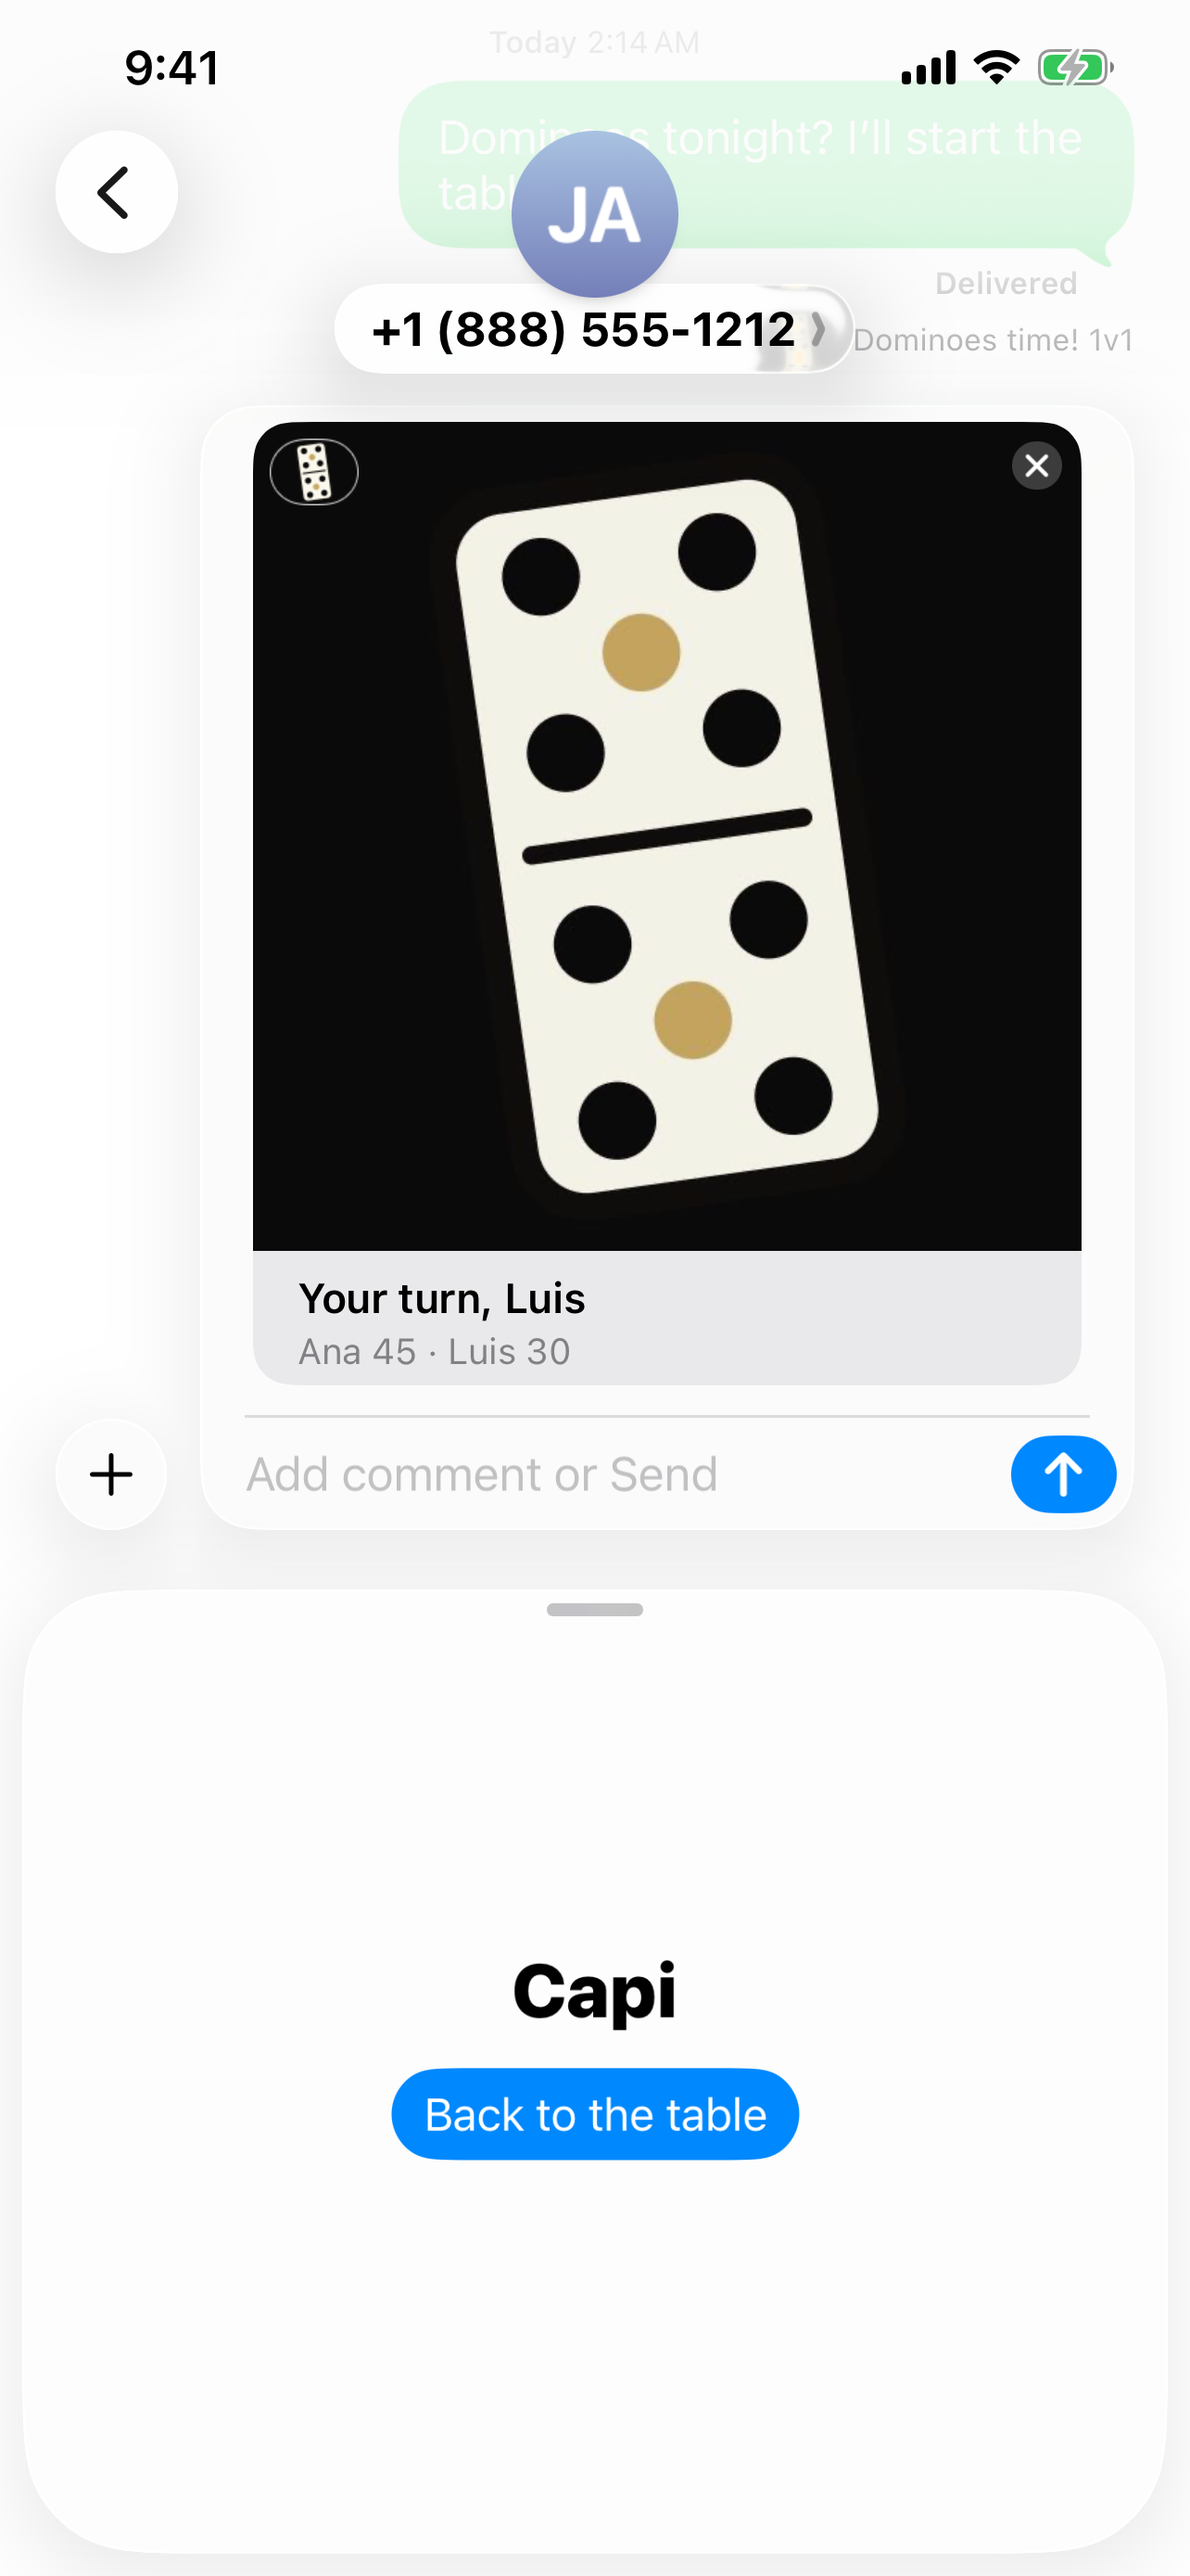
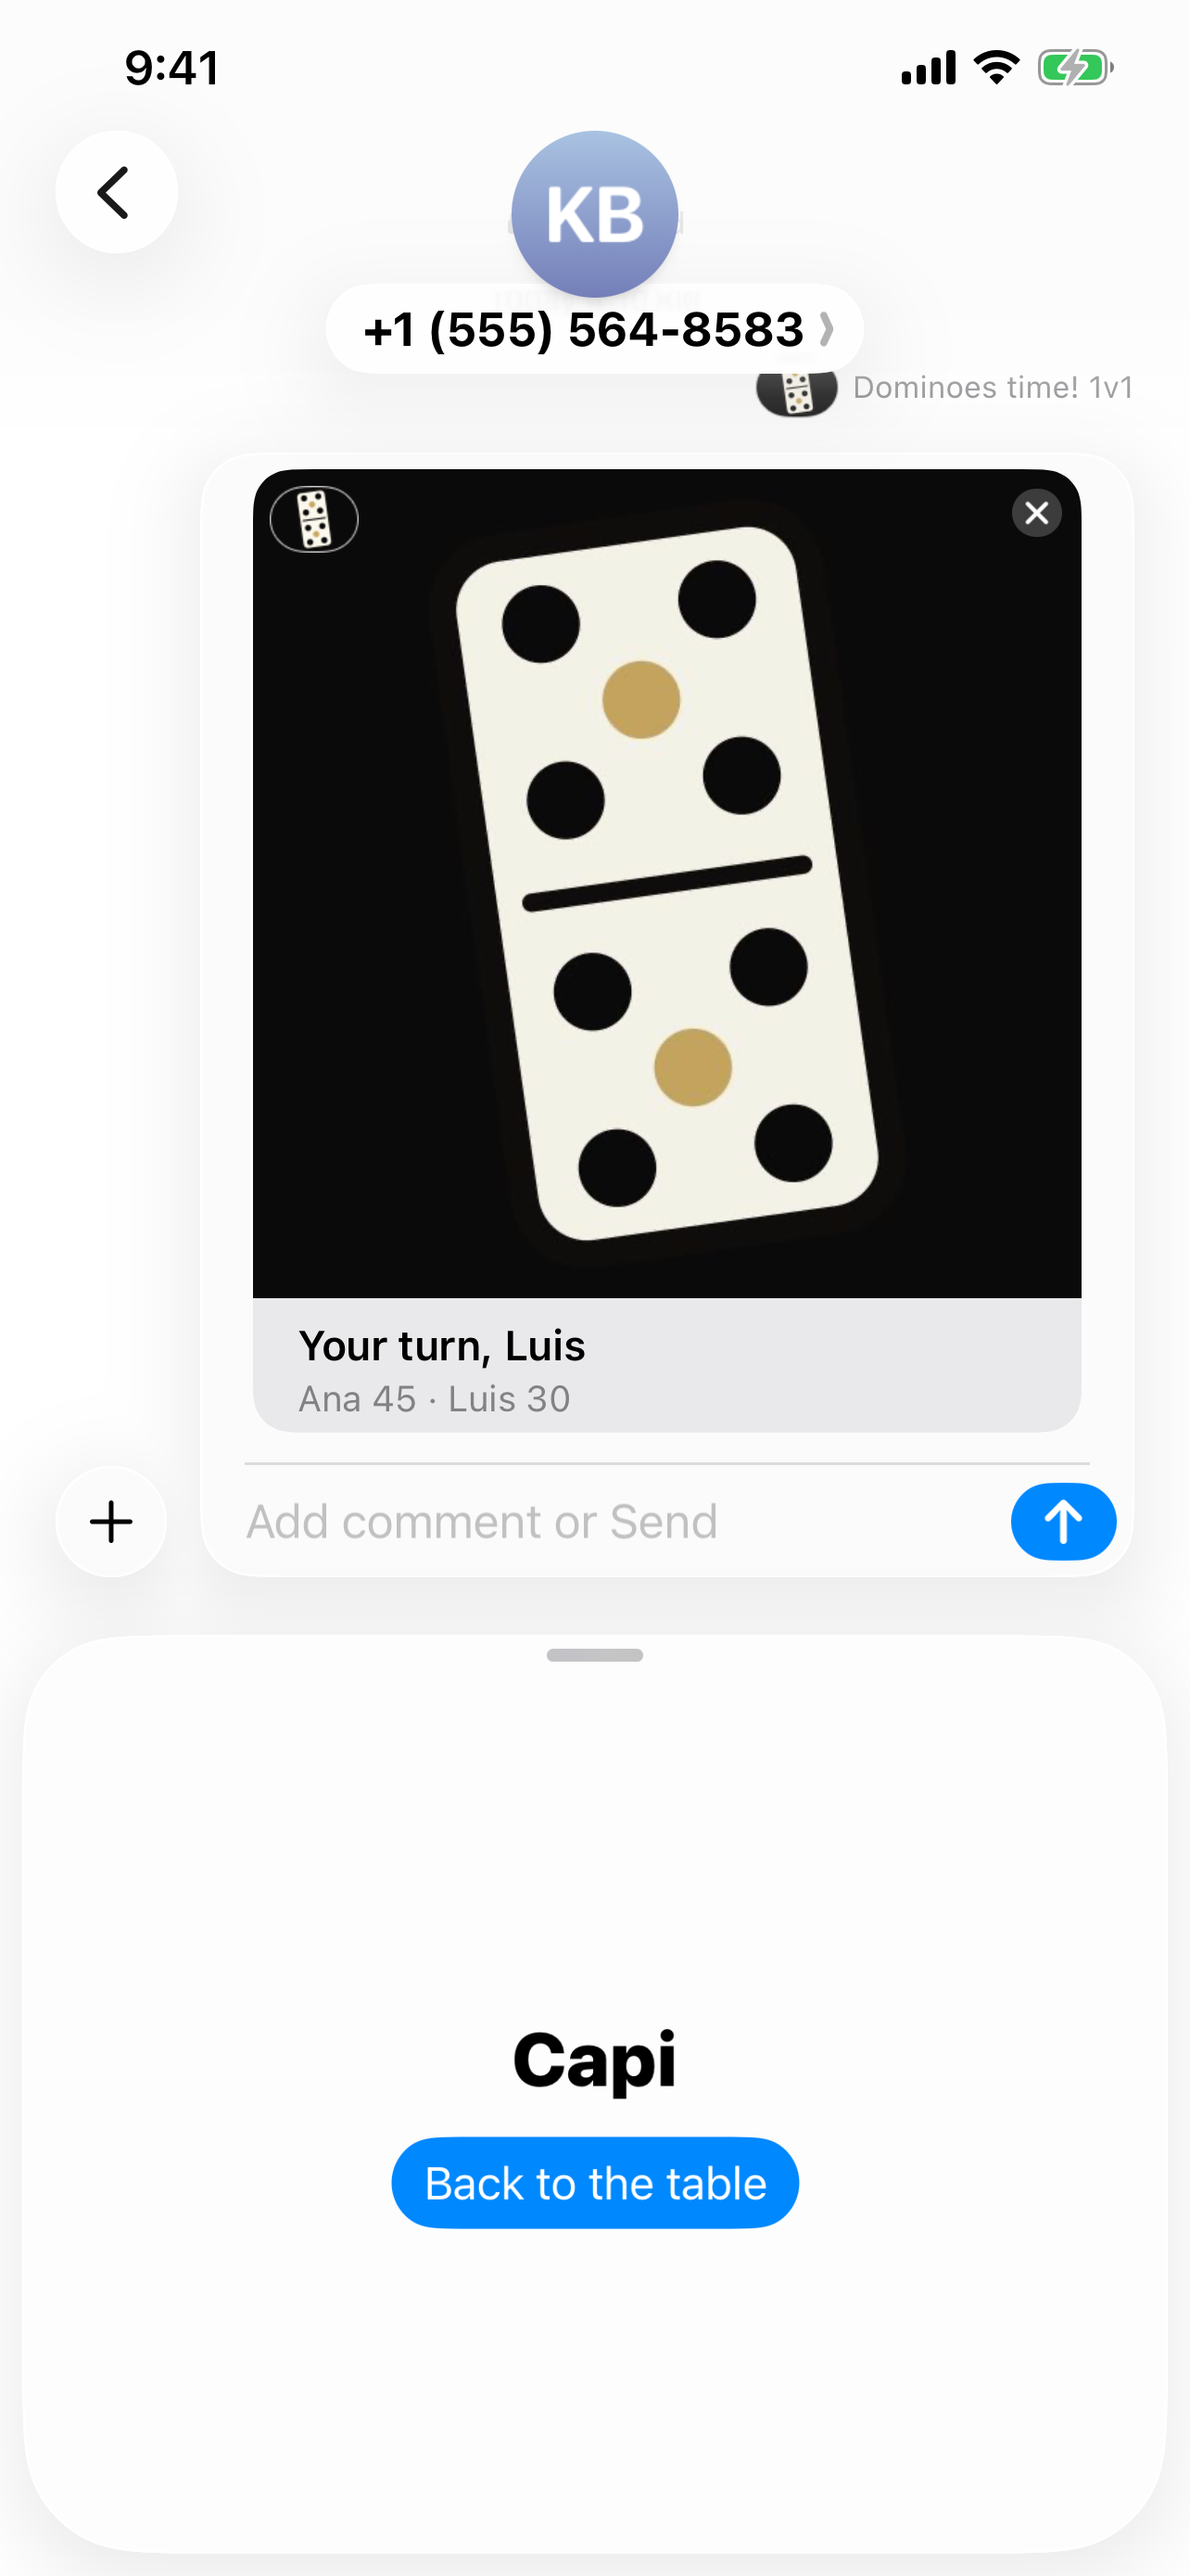
Docs: build 22 uploaded and verified; final iMessage App turn screenshot

Changed region(s): [[0.2181, 0.031, 0.9657, 0.6501], [0.3115, 0.743, 0.6854, 0.8668], [0.8411, 0.5572, 0.9346, 0.6192]]

diff --git a/docs/m5-submission-checklist.md b/docs/m5-submission-checklist.md
@@ -40,13 +40,13 @@ sources (apps/mobile/targets/messages), adds the extension's own privacy
 manifest (plugins/withMessagesExtension.js), and adds a line to the app's
 table for Messages games (apps/mobile/app/game/[id].tsx) after build 21.
 Build 21 is superseded. "The iMessage fix build" below means the next
-production build, build 22 (not built yet); test it, select it, and submit
-it, not 21. Its web half (apps/web: named turn bubbles, the result bubble
-from the player whose move ended the round, the next-round and rematch
-bubbles, the drawer's error screen, the hand and round-card fixes for short
-drawers) ships with a Vercel deploy. Build 22 also works against the page as
-it is live now (it falls back to "Your turn" and bare scores), but the fixes
-need the deploy before review.
+production build, build 22 (EAS id f259d3ed, commit f0ef651, uploaded to
+App Store Connect on 2026-09-29, submission 337e00a5); test it, select it, and
+submit it, not 21. Its web half (named turn bubbles, the result bubble from
+the player whose move ended the round, the next-round and rematch bubbles, the
+drawer's error screen, the hand and round-card fixes for short drawers) is
+live on playcapi.com since commit f0ef651. It also carries the capicúa rule
+of 2026-09-28: a double on matching ends counts.
 
 ## A. Code gates (Me)
 
@@ -138,7 +138,19 @@ need the deploy before review.
       Pase de salida section and the new tie lines. The .ipa's extension
       declares CFBundleIcons and version 1.1.0 (21). Submitted to App Store
       Connect on 2026-09-27 (submission 9a48e179). Confirm no ITMS email
-      comes back for it.
+      comes back for it. Superseded by build 22.
+- [x] The iMessage fix build, build 22 (EAS id f259d3ed, commit f0ef651).
+      Checked on the 14 Plus against playcapi.com after the deploy, with a
+      Release build of the same extension and the EAS simulator build of the
+      same commit (ae0a4c95): the create card in the small drawer, centered
+      even when the drawer opens over the Messages keyboard; the name field
+      expanding with the keyboard; invite, "Your turn, Luis" with "Ana 45 ·
+      Luis 30", live bot moves, "Ana took the round" with "Ana 81 · Luis 30";
+      the app's "Esta mesa es de Mensajes" line on a Messages table. The
+      .ipa: version 1.1.0 (22) in the app and the extension, CFBundleIcons,
+      the extension's PrivacyInfo.xcprivacy, the new capicúa sentences in
+      both languages. Submitted to App Store Connect on 2026-09-29
+      (submission 337e00a5). Confirm no ITMS email comes back for it.
 
 ## D. App Store Connect (You, ~30 minutes total)
 
